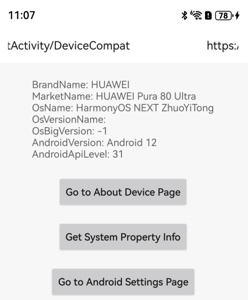
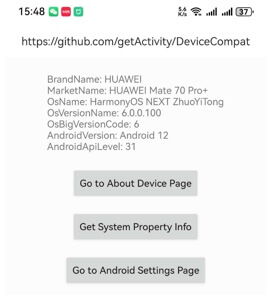
新增支持在卓易通上面获取鸿蒙的版本

diff --git a/library/src/main/java/com/hjq/device/compat/DeviceOs.java b/library/src/main/java/com/hjq/device/compat/DeviceOs.java
@@ -215,11 +215,30 @@ public final class DeviceOs {
     static final String OS_NAME_ZYT_ON_HARMONY_OS_NEXT = "HarmonyOS NEXT ZhuoYiTong";
 
     /**
+     * HarmonyOS NEXT 6.0.0 版本属性：
+     * [ro.sys.anco.product.software.version]: [PLA-AL10 6.0.0.100(SP6C00E47R4P3)]
+     * [sys.anco.hwpatch.display.version]: []
+     *
+     * HarmonyOS NEXT 5.1.0 版本属性：
+     * [ro.sys.anco.product.software.version]: [ADL-AL00U 5.1.0.150(SP10C00E128R2P1)]
+     * [sys.anco.hwpatch.display.version]: [5.1.0.150(SP10C00E128R2P1patch03)]
+     *
+     * 所以综合取舍下来最优解是：
+     * [ro.sys.anco.product.software.version]: [PLA-AL10 6.0.0.100(SP6C00E47R4P3)]
+     */
+    static final String OS_VERSION_ZYT_ON_HARMONY_OS_NEXT = "ro.sys.anco.product.software.version";
+
+    /**
      * [ro.product.anco.devicetype]: [phone]
-     * [ro.product.os.dist.anco.apiversion]: [50101]
+     *
+     * [ro.product.os.dist.anco.apiversion]: [60000]
+     * [ro.product.os.dist.anco.apiversion]: [50005]
+     *
      * [ro.product.os.dist.anco.releasetype]: [Release]
+     * [ro.product.os.dist.anco.releasetype]: [Beta5]
      */
     static final String[] OS_CONDITIONS_ZYT_ON_HARMONY_OS_NEXT = { "ro.product.anco.devicetype",
+                                                                   OS_VERSION_ZYT_ON_HARMONY_OS_NEXT,
                                                                    "ro.product.os.dist.anco.apiversion",
                                                                    "ro.product.os.dist.anco.releasetype" };
 
@@ -642,7 +661,7 @@ public final class DeviceOs {
         if (sCurrentOsName == null && SystemPropertyCompat.isSystemPropertyAnyOneExist(OS_CONDITIONS_ZYT_ON_HARMONY_OS_NEXT)) {
             sCurrentOsType = OS_TYPE_ZYT_ON_HARMONY_OS_NEXT;
             sCurrentOsName = OS_NAME_ZYT_ON_HARMONY_OS_NEXT;
-            sCurrentOsVersionName = "";
+            sCurrentOsVersionName = getBestVersionNameBySystemProperties(OS_VERSION_ZYT_ON_HARMONY_OS_NEXT);
         }
 
         if (sCurrentOsName == null && SystemPropertyCompat.isSystemPropertyAnyOneExist(OS_CONDITIONS_HARMONY_OS)) {
